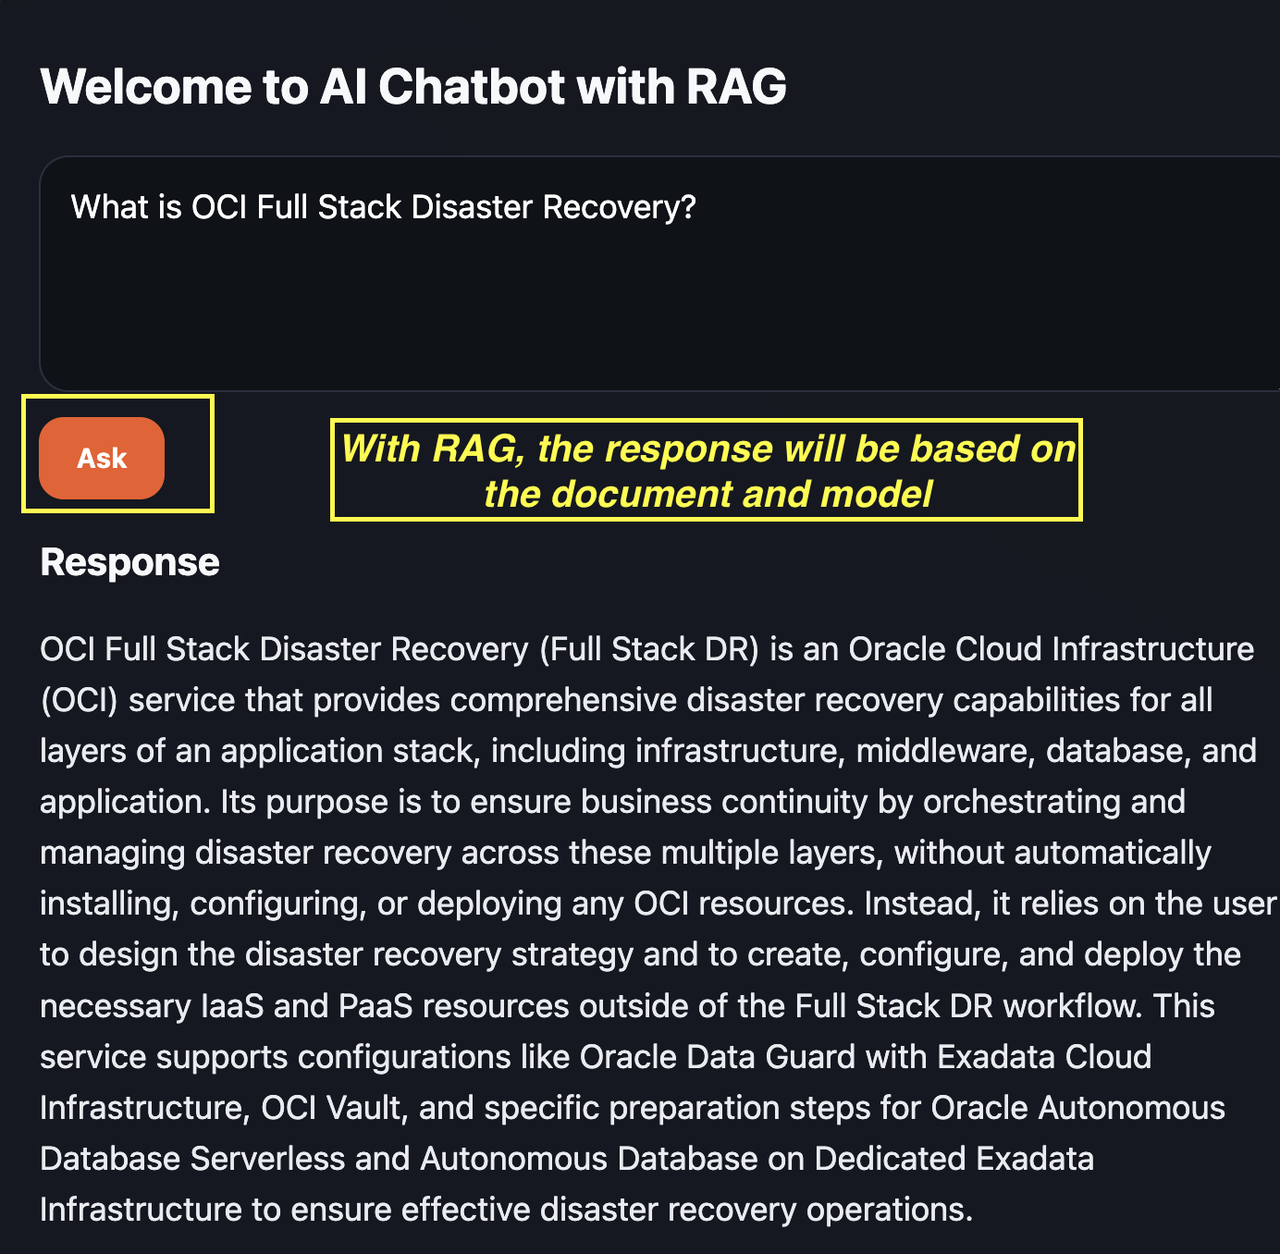
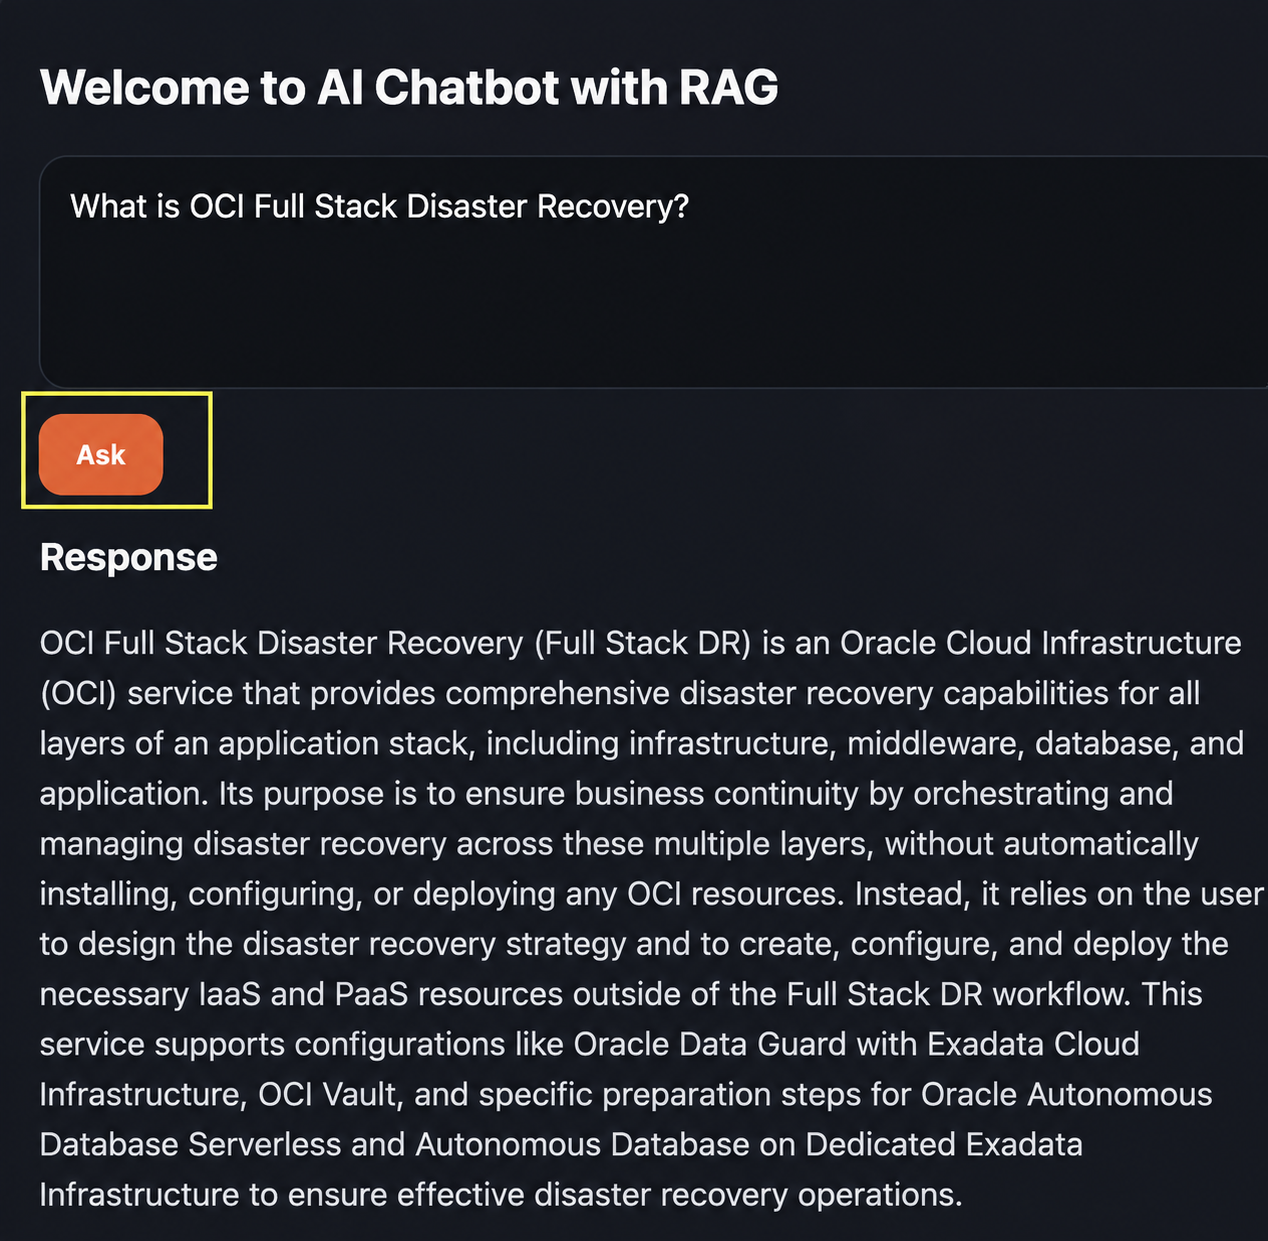
Updates
Updates

diff --git a/oci-fullstack-recovery/oci-fullstack-oke/deploy-ai-workload/deploy-ai-workload.md b/oci-fullstack-recovery/oci-fullstack-oke/deploy-ai-workload/deploy-ai-workload.md
@@ -166,21 +166,21 @@ In this lab, you will:
 
     **What is OCI Full Stack Disaster Recovery?**
 
-    Confirm that the application returns a generic response based on the model, without retrieval-augmented generation (RAG) context. The response should not reference an uploaded document.
+    Confirm that Granite responds. The application includes two short sample documents about Full Stack DR and this lab, loaded during deployment. These provide basic context for the first answer.
 
-    **RAG note:** Retrieval-augmented generation (RAG) combines information retrieved from an uploaded document with the AI model's knowledge to generate a context-grounded response. RAG is not used for this first response because no document has been uploaded and indexed yet.
+    **RAG note:** The application retrieves relevant document text and passes it to Granite to help generate an answer. Both steps use this process: first with basic sample context, then with context from the uploaded documentation.
 
     ![Primary Ashburn AI workload showing healthy services and connected database](./images/validate-ai-application-primary.png)
 
     Confirm that the application shows **Active DB region** and **Connected DB region** as `us-ashburn-1`. Confirm that the API, Autonomous AI Database, and Ollama statuses show **ok** or **up**, and that the model is `granite4.1:3b`.
 
-    ![Validate AI response without RAG](./images/validate-ai-response-without-rag.png)
+    ![Validate Granite response using seeded-document context](./images/validate-ai-response-without-rag.png)
 
 2. Test the document retrieval experience.
 
     Download the [OCI Full Stack Disaster Recovery official documentation](https://c4u02.objectstorage.us-ashburn-1.oci.customer-oci.com/p/9DEArLjsgbKXuJgQtSG95E8hMXRFtxgHR8jiHbqz4HgyVYXVnSo0SC_s-zq5CJA3/n/c4u02/b/hosted-files/o/OCI%20Full%20Stack%20DR%20doc.pdf) to your local computer, not to Cloud Shell.
 
-    Return to the AI application and upload the PDF. Select the file, click **Upload & Index**, and wait for the confirmation that the document was indexed into Autonomous AI Database. The application processes the document and stores its chunks and embeddings for RAG retrieval.
+    Return to the AI application and upload the PDF. Select the file, click **Upload & Index**, and wait for the confirmation that the document was indexed into Autonomous AI Database. The application splits the document into text chunks and stores them in Autonomous AI Database. It uses keyword scoring to select relevant chunks as context for Granite.
 
     ![Upload FSDR documentation](./images/upload-fsdr-doc.png)
     
@@ -188,9 +188,9 @@ In this lab, you will:
 
     **What is OCI Full Stack Disaster Recovery?**
 
-    Confirm that the application accepts the document and returns a context-grounded response using RAG from the uploaded documentation. The response should be based on both the document and the Granite model, and should reflect information from the document you uploaded.
+    Check the source filenames and excerpts to confirm that the uploaded documentation was used as context for Granite. The generated wording may vary. In Lab 4, you will repeat this check in Phoenix without uploading the document again.
 
-    ![Validate AI response with RAG](./images/validate-ai-response-with-rag.png)
+    ![Validate Granite response using uploaded-document context](./images/validate-ai-response-with-rag.png)
 
     **Follow-up questions:** You can ask additional questions about OCI Full Stack Disaster Recovery and verify that the responses continue to use relevant information from the uploaded documentation.
 

diff --git a/oci-fullstack-recovery/oci-fullstack-oke/test-recovery/test-recovery.md b/oci-fullstack-recovery/oci-fullstack-oke/test-recovery/test-recovery.md
@@ -10,7 +10,7 @@ Complete Lab 3 and wait for the Start Drill plan to finish successfully before s
 
 The restored application runs in the `ai-fsdr-lab` namespace on the Phoenix standby OKE cluster. Use `kubectl -n ai-fsdr-lab` for application checks and troubleshooting.
 
-The FSDR document uploaded in Ashburn is already available in Phoenix. Autonomous Data Guard synchronizes its chunks and embeddings. During the drill, the Phoenix snapshot standby accepts application connections. The recovered application can query the existing RAG data without another upload.
+The FSDR document uploaded in Ashburn is already available in Phoenix. Autonomous Data Guard synchronizes the stored document data, including its text chunks. During the drill, the Phoenix snapshot standby accepts application connections. The recovered application uses keyword scoring to retrieve the existing document chunks as context for Granite, without another upload.
 
 Estimated Time: 10 minutes
 
@@ -82,7 +82,7 @@ In this lab, you will:
 
     **What is OCI Full Stack Disaster Recovery?**
 
-    Confirm that the application returns a response using RAG from the document chunks already present in the Phoenix database.
+    Ask the question without uploading the document again. Confirm that Granite responds and that the source filenames and excerpts include the documentation uploaded in Lab 1. This verifies that the recovered application can use the document data in Phoenix.
 
     ![Phoenix AI workload showing healthy services, connected Phoenix database, and a RAG response](./images/phoenix-ai-workload-rag-validation.png)
 
